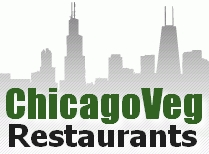
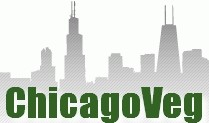
tweaks to image

diff --git a/src/components/searchArea.js b/src/components/searchArea.js
@@ -147,7 +147,7 @@ export class SearchArea extends Component {
                                     onClick={this.geolocate}
                                     value="Auto Detect"
                                   >
-                                    <i className="auto-detect-icon material-icons">
+                                    <i className="auto-detect-icon material-icons text-black-50">
                                       my_location
                                     </i>
                                   </button>

diff --git a/src/styles/_app.scss b/src/styles/_app.scss
@@ -16,8 +16,8 @@ nav {
 .brand {
     border-radius: 8px;
     padding:0px;
-    height: 45px;
-    width: 120px;
+    height: 55px;
+    width: 100px;
 }
 
 .title {
